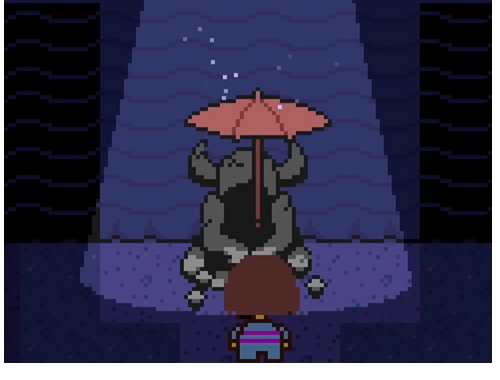
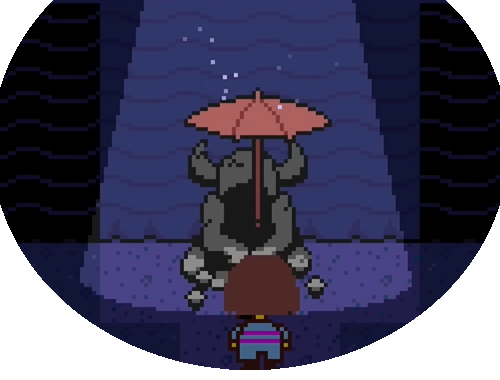
Fixed card cropping

diff --git a/src/main/java/friskmod/cards/Doomed.java b/src/main/java/friskmod/cards/Doomed.java
@@ -1,6 +1,7 @@
 package friskmod.cards;
 
 import com.megacrit.cardcrawl.actions.common.ApplyPowerAction;
+import com.megacrit.cardcrawl.cards.AbstractCard;
 import com.megacrit.cardcrawl.characters.AbstractPlayer;
 import com.megacrit.cardcrawl.core.CardCrawlGame;
 import com.megacrit.cardcrawl.localization.UIStrings;
@@ -41,6 +42,14 @@ public class Doomed extends AbstractEasyCard {
         baseSecondMagic = secondMagic = DRAFT_AMOUNT;
         tags.add(FriskTags.JUSTICE);
     }
+    @Override
+    public void triggerOnGlowCheck() {
+        glowColor = AbstractCard.BLUE_BORDER_GLOW_COLOR.cpy();
+        if (ThreatenedCheck.isThreatened()) {
+            glowColor = AbstractCard.GOLD_BORDER_GLOW_COLOR.cpy();
+        }
+    }
+
     @Override
     public void use(AbstractPlayer p, AbstractMonster m) {
         final boolean beforeThreatened = ThreatenedCheck.isThreatened();
